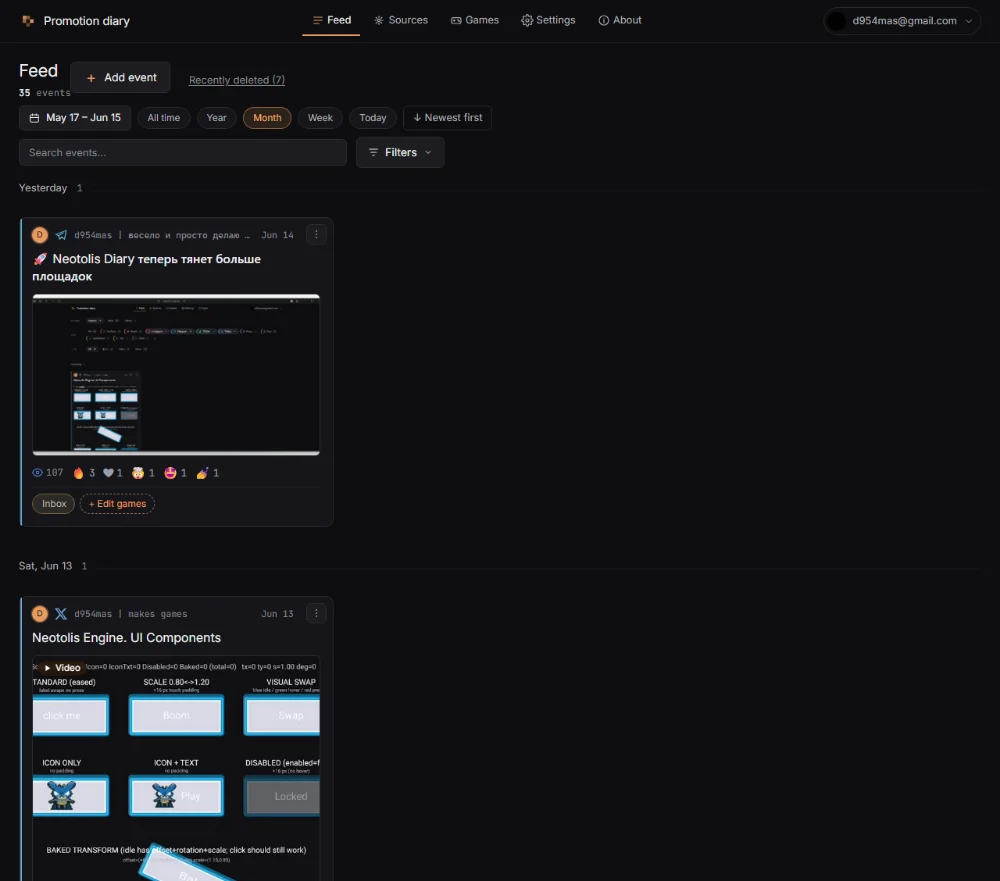
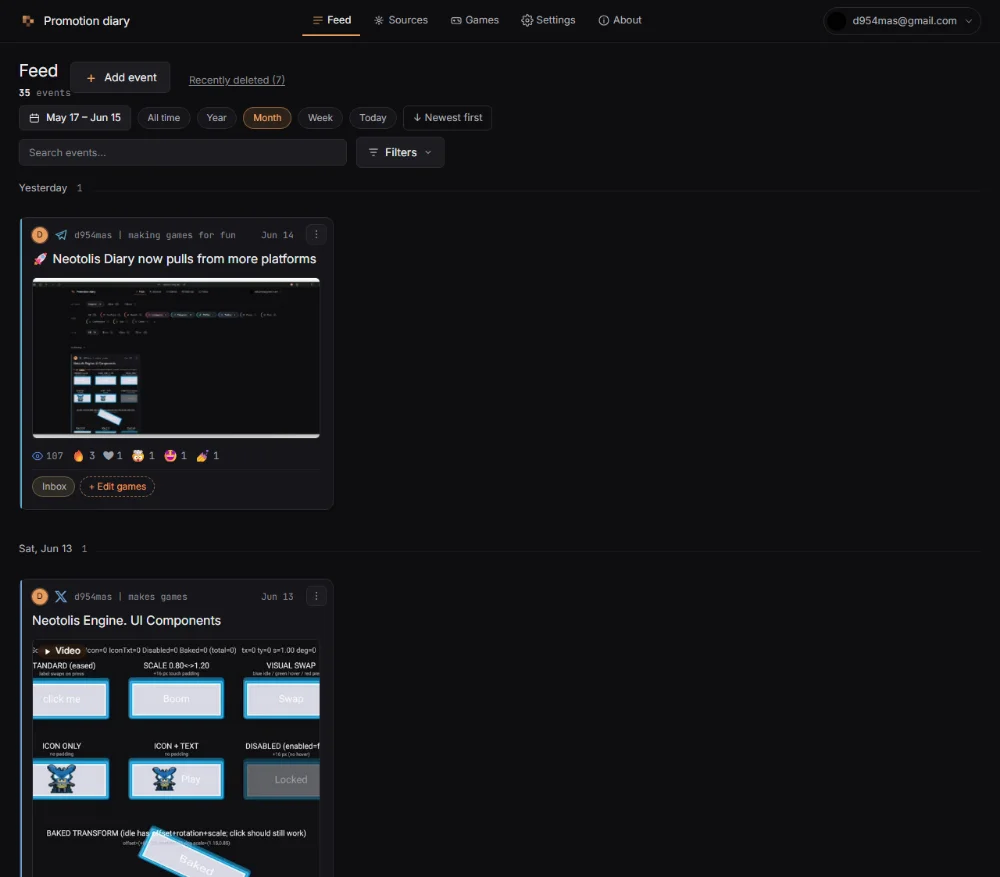
fix(about): English feed screenshot + clearer self-host CTA
- Re-render the landing feed screenshot with English event titles and
  channel bylines (the old shot leaked Russian copy from prod data).
- Rename the secondary CTA "Self-host on GitHub" → "Self-host it": you
  don't host *on* GitHub; the link still points at the repo + runbook.
- Match declared <img> height to the new shot (881 → 877) to avoid CLS.

diff --git a/src/lib/components/AboutContent.svelte b/src/lib/components/AboutContent.svelte
@@ -55,7 +55,7 @@
     <a class="btn ghost" href={GITHUB} target="_blank" rel="noopener">
       <svg viewBox="0 0 24 24" aria-hidden="true"
         ><path d="M12 3v12" /><path d="M7 11l5 4 5-4" /><path d="M4 20h16" /></svg
-      >Self-host on GitHub</a
+      >Self-host it</a
     >
   </div>
 {/snippet}
@@ -234,7 +234,7 @@
           alt="Chronological feed of promo events, each with its per-post stats"
           loading="lazy"
           width="1000"
-          height="881"
+          height="877"
         />
       </div>
       <div class="split-copy">
